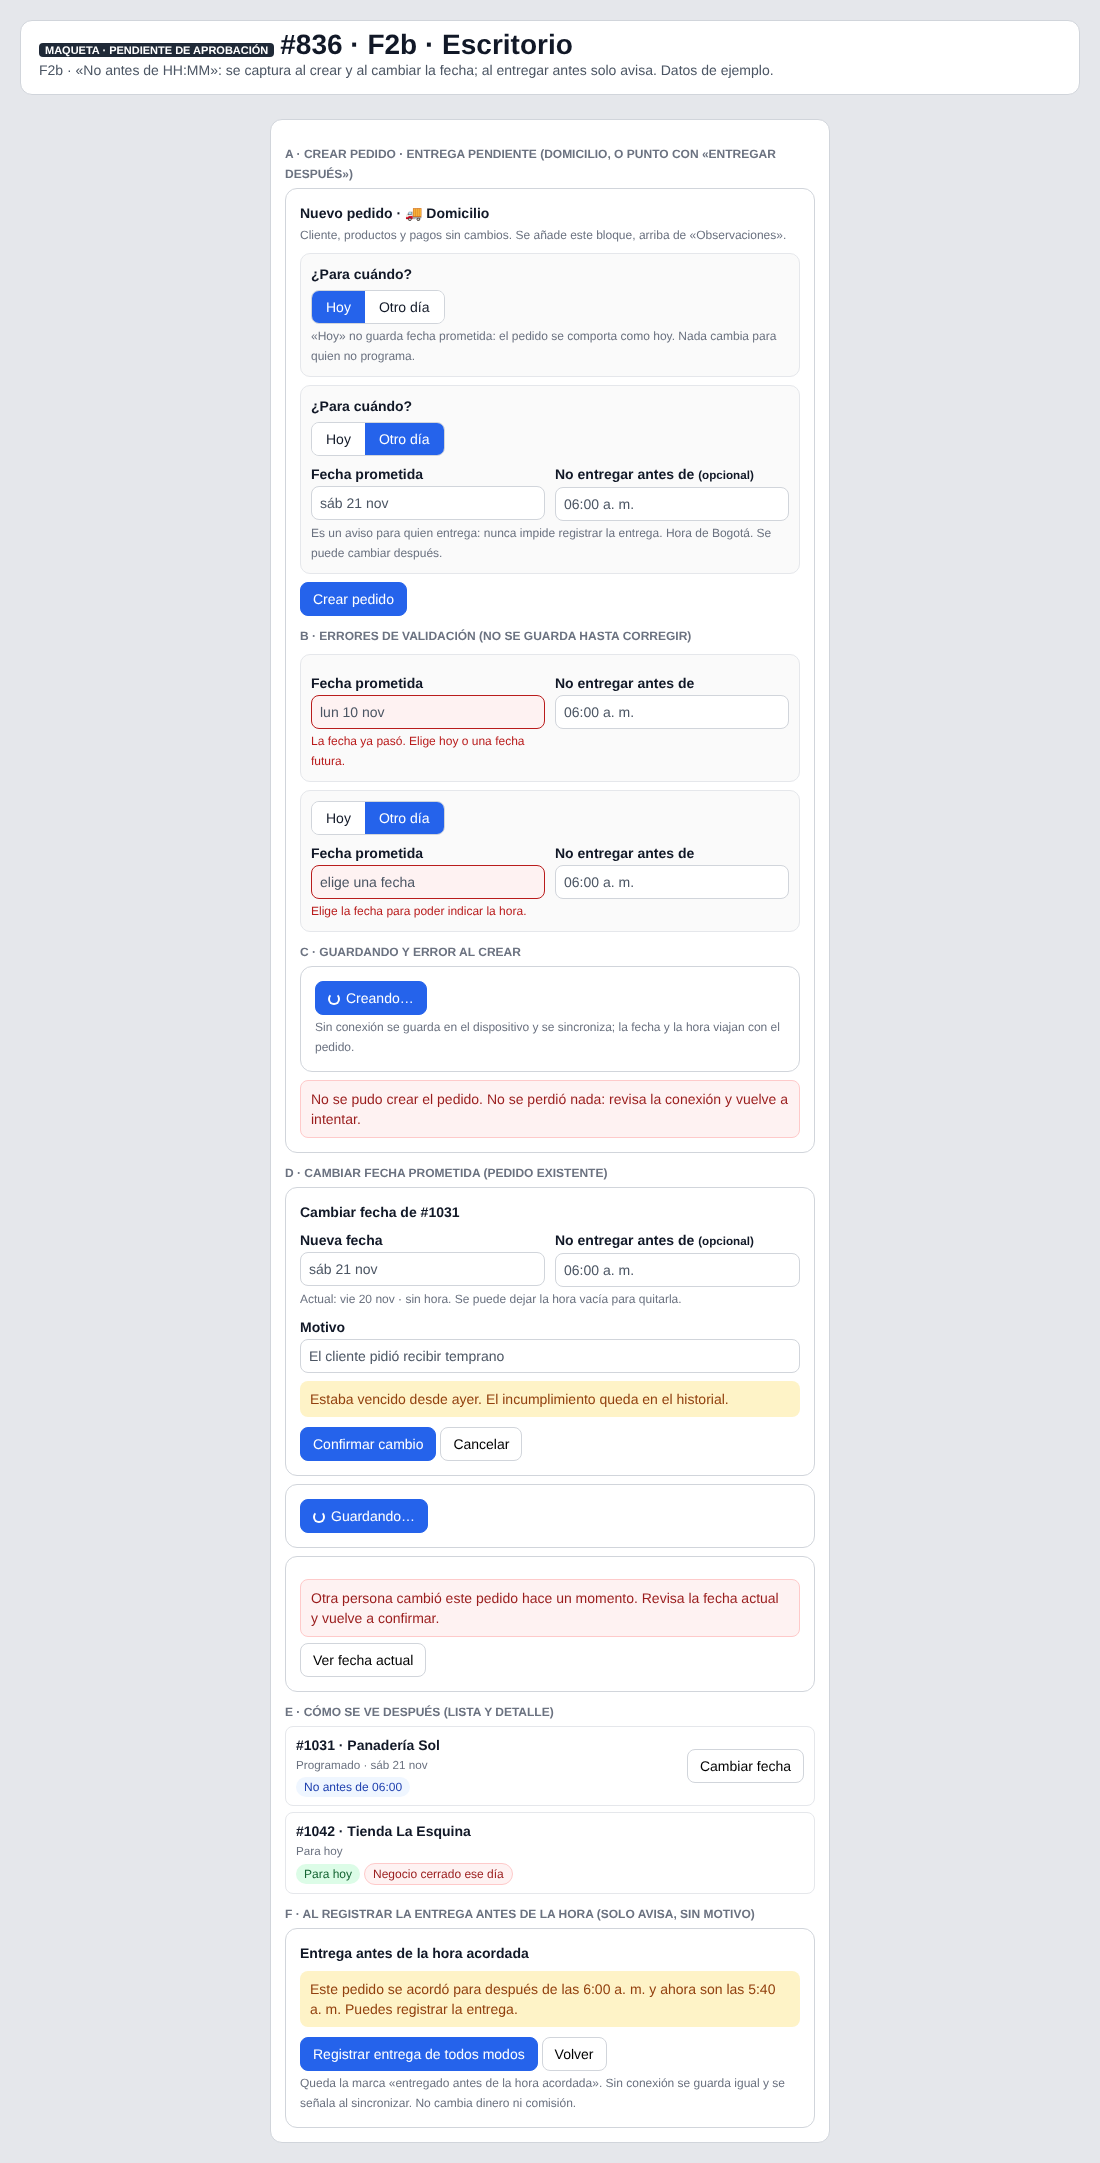
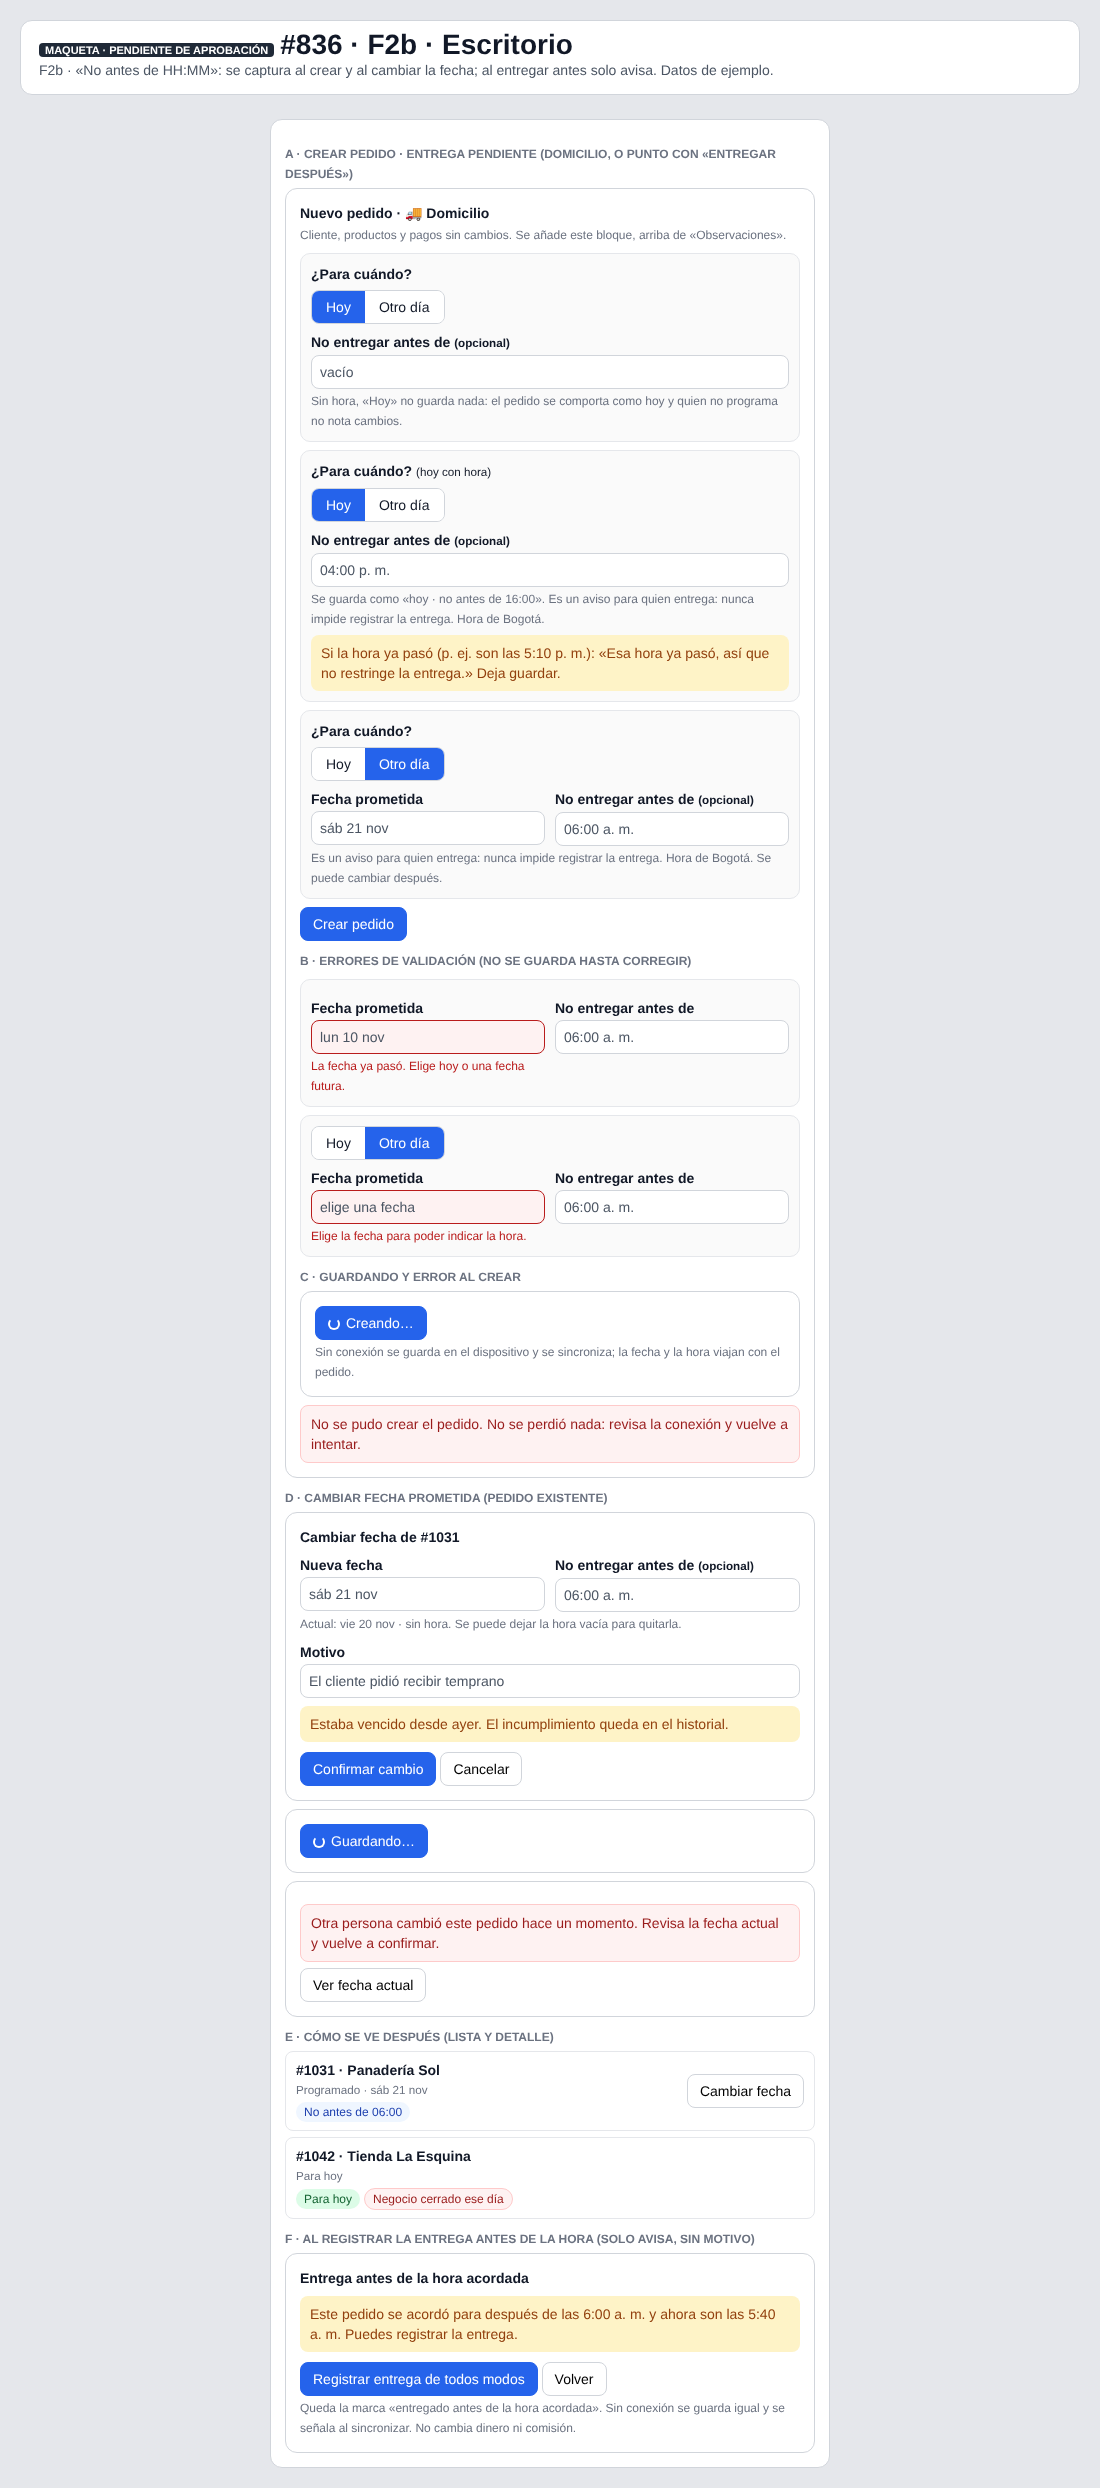
docs(836): la hora «no antes de» también aplica a hoy; maquetas actualizadas
Claude-Session: https://claude.ai/code/session_01WV8WE4C9HXLmAfyxAefNfv

Changed region(s): [[0.0309, 0.0, 0.9891, 0.9912], [0.4945, 0.3098, 0.68, 0.3407]]

diff --git a/docs/agentes/maquetas/836-programacion-entregas/05-no-antes-de-escritorio.html b/docs/agentes/maquetas/836-programacion-entregas/05-no-antes-de-escritorio.html
@@ -24,7 +24,12 @@ button.b{border:1px solid var(--b600);background:var(--b600);color:#fff;border-r
 <div class="dlg"><b>Nuevo pedido · 🚚 Domicilio</b>
 <p class="ayu">Cliente, productos y pagos sin cambios. Se añade este bloque, arriba de «Observaciones».</p>
 <div class="sec"><b>¿Para cuándo?</b><div style="margin-top:6px"><div class="seg"><span class="on">Hoy</span><span>Otro día</span></div></div>
-<p class="ayu">«Hoy» no guarda fecha prometida: el pedido se comporta como hoy. Nada cambia para quien no programa.</p></div>
+<div class="row2"><div><label>No entregar antes de <small>(opcional)</small></label><div class="in">vacío</div></div></div>
+<p class="ayu">Sin hora, «Hoy» no guarda nada: el pedido se comporta como hoy y quien no programa no nota cambios.</p></div>
+<div class="sec"><b>¿Para cuándo?</b> <small>(hoy con hora)</small><div style="margin-top:6px"><div class="seg"><span class="on">Hoy</span><span>Otro día</span></div></div>
+<div class="row2"><div><label>No entregar antes de <small>(opcional)</small></label><div class="in">04:00 p. m.</div></div></div>
+<p class="ayu">Se guarda como «hoy · no antes de 16:00». Es un aviso para quien entrega: nunca impide registrar la entrega. Hora de Bogotá.</p>
+<div class="msg am" style="margin-top:6px">Si la hora ya pasó (p. ej. son las 5:10 p. m.): «Esa hora ya pasó, así que no restringe la entrega.» Deja guardar.</div></div>
 <div class="sec"><b>¿Para cuándo?</b><div style="margin-top:6px"><div class="seg"><span>Hoy</span><span class="on">Otro día</span></div></div>
 <div class="row2"><div><label>Fecha prometida</label><div class="in">sáb 21 nov</div></div><div><label>No entregar antes de <small>(opcional)</small></label><div class="in">06:00 a. m.</div></div></div>
 <p class="ayu">Es un aviso para quien entrega: nunca impide registrar la entrega. Hora de Bogotá. Se puede cambiar después.</p></div>

diff --git a/docs/agentes/maquetas/836-programacion-entregas/06-no-antes-de-movil.html b/docs/agentes/maquetas/836-programacion-entregas/06-no-antes-de-movil.html
@@ -24,7 +24,12 @@ button.b{border:1px solid var(--b600);background:var(--b600);color:#fff;border-r
 <div class="dlg"><b>Nuevo pedido · 🚚 Domicilio</b>
 <p class="ayu">Cliente, productos y pagos sin cambios. Se añade este bloque, arriba de «Observaciones».</p>
 <div class="sec"><b>¿Para cuándo?</b><div style="margin-top:6px"><div class="seg"><span class="on">Hoy</span><span>Otro día</span></div></div>
-<p class="ayu">«Hoy» no guarda fecha prometida: el pedido se comporta como hoy. Nada cambia para quien no programa.</p></div>
+<div class="row2"><div><label>No entregar antes de <small>(opcional)</small></label><div class="in">vacío</div></div></div>
+<p class="ayu">Sin hora, «Hoy» no guarda nada: el pedido se comporta como hoy y quien no programa no nota cambios.</p></div>
+<div class="sec"><b>¿Para cuándo?</b> <small>(hoy con hora)</small><div style="margin-top:6px"><div class="seg"><span class="on">Hoy</span><span>Otro día</span></div></div>
+<div class="row2"><div><label>No entregar antes de <small>(opcional)</small></label><div class="in">04:00 p. m.</div></div></div>
+<p class="ayu">Se guarda como «hoy · no antes de 16:00». Es un aviso para quien entrega: nunca impide registrar la entrega. Hora de Bogotá.</p>
+<div class="msg am" style="margin-top:6px">Si la hora ya pasó (p. ej. son las 5:10 p. m.): «Esa hora ya pasó, así que no restringe la entrega.» Deja guardar.</div></div>
 <div class="sec"><b>¿Para cuándo?</b><div style="margin-top:6px"><div class="seg"><span>Hoy</span><span class="on">Otro día</span></div></div>
 <div class="row2"><div><label>Fecha prometida</label><div class="in">sáb 21 nov</div></div><div><label>No entregar antes de <small>(opcional)</small></label><div class="in">06:00 a. m.</div></div></div>
 <p class="ayu">Es un aviso para quien entrega: nunca impide registrar la entrega. Hora de Bogotá. Se puede cambiar después.</p></div>

diff --git a/docs/agentes/investigacion/2026-11-17-836-programacion-entregas.md b/docs/agentes/investigacion/2026-11-17-836-programacion-entregas.md
@@ -133,3 +133,6 @@ Maquetas F1 y F3 (escritorio y móvil, con confirmación, carga y error): `docs/
 - **P3 — `DECISIÓN` (PO):** al entregar antes de la hora **solo avisa**, sin pedir motivo (reemplaza la propuesta «avisar y pedir motivo» de §8). Se mantiene la marca auditable «entregado antes de la hora acordada» y nunca se bloquea, tampoco sin conexión.
 - **P4 — `DECISIÓN` (PO):** el aviso por horario de atención del negocio al entregar queda fuera de esta versión.
 - **Maquetas:** `05-no-antes-de-escritorio` y `06-no-antes-de-movil` (`.html` y `.png`), **PENDIENTE DE APROBACIÓN**. Sin aprobación no hay código.
+
+### 8.2 Corrección de diseño (18-nov-2026, a observación del PO)
+La hora «no antes de» también aplica a **hoy** («hoy, no antes de las 16:00»). Regla: en «Hoy» la hora es opcional; sin hora no se guarda nada, con hora se guarda `fechaEntrega` = hoy (Bogotá) + `entregaNoAntesDe`. Si la hora ya pasó, se avisa («no restringe la entrega») y se permite guardar. Maquetas 05 y 06 actualizadas, **PENDIENTE DE APROBACIÓN**.
